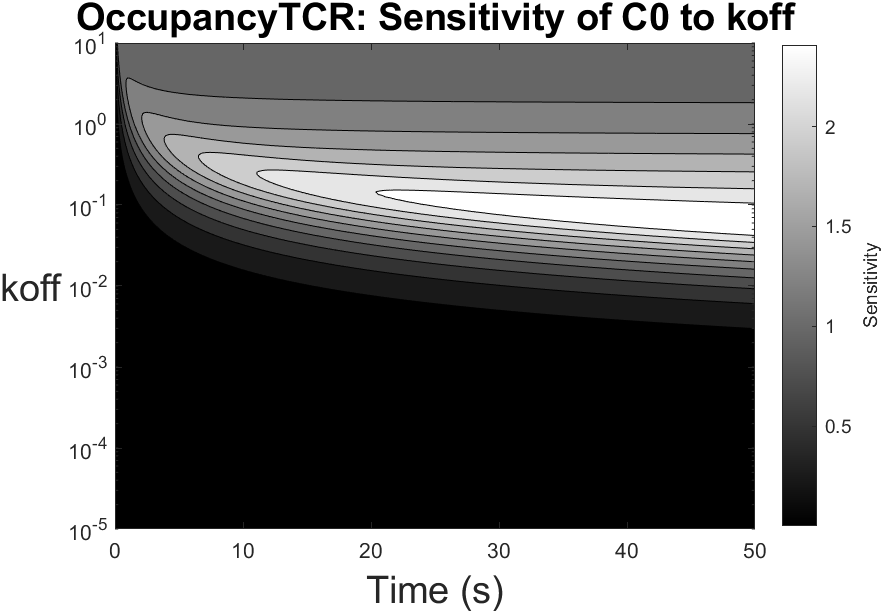
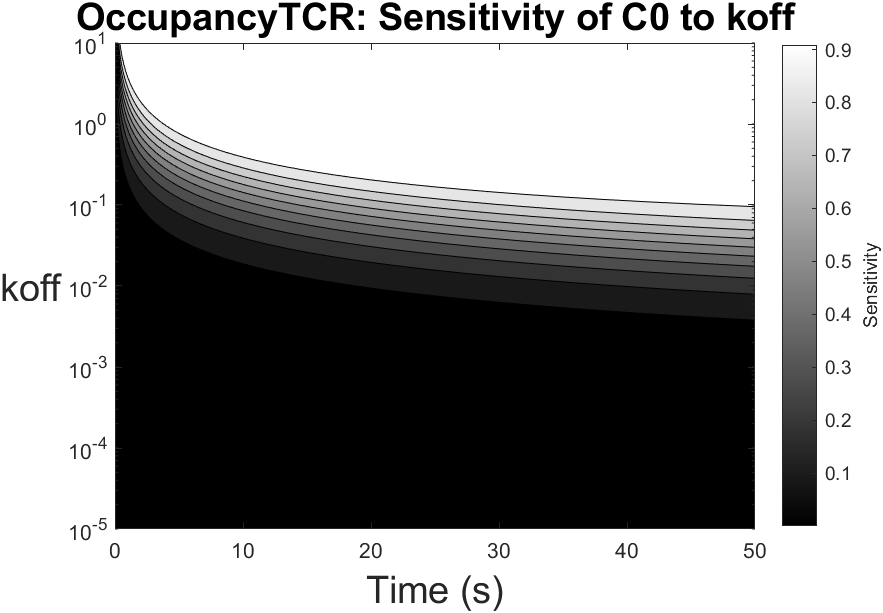
Support optional input for OccupancyTCR model
Refactor OccupancyTCR to separate input-driven and inputless dynamics. The core ODE OccupancyTCR.m was simplified to signature (t,x,p) and input terms (u) were removed; the previous input-aware implementation was moved to a new OccupancyTCRinput.m that uses inputSignal. Added model.ifu1 = false in the options to toggle input usage. SensitivityOrganizer now selects the correct function handle depending on model.ifu1 (either the input-capable wrapper or the plain model function). Updated run_options.txt to reference the new ODE function and regenerated sensitivity images/plots.

diff --git a/v.6/src/SensitivityOrganizer.m b/v.6/src/SensitivityOrganizer.m
@@ -5,10 +5,7 @@
 %%
 function SensitivityOrganizer()
     opts = options();
-    
-    % Create the name of the function handle type variable that is going to analyse
-    ode_base  = str2func(opts.modelname);
-    
+        
     % Run the corresponding options file
     options_script = [opts.modelname '_options'];
     if exist([options_script '.m'], 'file')
@@ -16,9 +13,15 @@ function SensitivityOrganizer()
     else
         error(['File ' options_script '.m not found']);
     end
-
-    % Intento input
-    ode_function = @(t,x,p) ode_base(t, x, p, model.tspan, model.u1);
+    
+    if model.ifu1
+        % Intento input
+        ode_base  = str2func(opts.modelname);
+        ode_function = @(t,x,p) ode_base(t, x, p, model.tspan, model.u1);
+    else
+        % Create the name of the function handle type variable that is going to analyse
+        ode_function  = str2func(opts.modelname);
+    end
     
     % Initialize the parallel processing pool if it is not active and if it is
     % required by the user

diff --git a/v.6/models/OccupancyTCR.m b/v.6/models/OccupancyTCR.m
@@ -1,9 +1,9 @@
-function dx = OccupancyTCR(t, x, p, tspan, u1)
+function dx = OccupancyTCR(t, x, p)
+
     dx = zeros(3, 1);
 
-    u = inputSignal(t, tspan, u1);
-
-    dx(1) = p(1) * x(2) * x(3) - p(2) * x(1) * u;  % C0
-    dx(2) = -p(1) * x(2) * x(3)*u + p(2) * x(1); % P
+    dx(1) = p(1) * x(2) * x(3) - p(2) * x(1);  % C0
+    dx(2) = -p(1) * x(2) * x(3) + p(2) * x(1); % P
     dx(3) = -p(1) * x(3) * x(3) + p(2) * x(1); % T
+    
 end

diff --git a/v.6/models/OccupancyTCRinput.m b/v.6/models/OccupancyTCRinput.m
@@ -1,0 +1,10 @@
+function dx = OccupancyTCRinput(t, x, p, tspan, u1)
+    dx = zeros(3, 1);
+
+    u = inputSignal(t, tspan, u1);
+
+    dx(1) = p(1) * x(2) * x(3) - p(2) * x(1) * u;  % C0
+    dx(2) = -p(1) * x(2) * x(3) + p(2) * x(1); % P
+    dx(3) = -p(1) * x(3) * x(3) + p(2) * x(1); % T
+    
+end

diff --git a/v.6/models/OccupancyTCR_options.m b/v.6/models/OccupancyTCR_options.m
@@ -51,8 +51,8 @@ model.IC_spacing = 'linear';
 model.tspan     = 0.0:model.step_size:model.t_end;
 
 % Defining inputs
+model.ifu1 = false;
 model.u1 = 2 * ones(size(model.tspan));
-
 
 [model, opts] = refiningModelOptions(model, opts);
 
